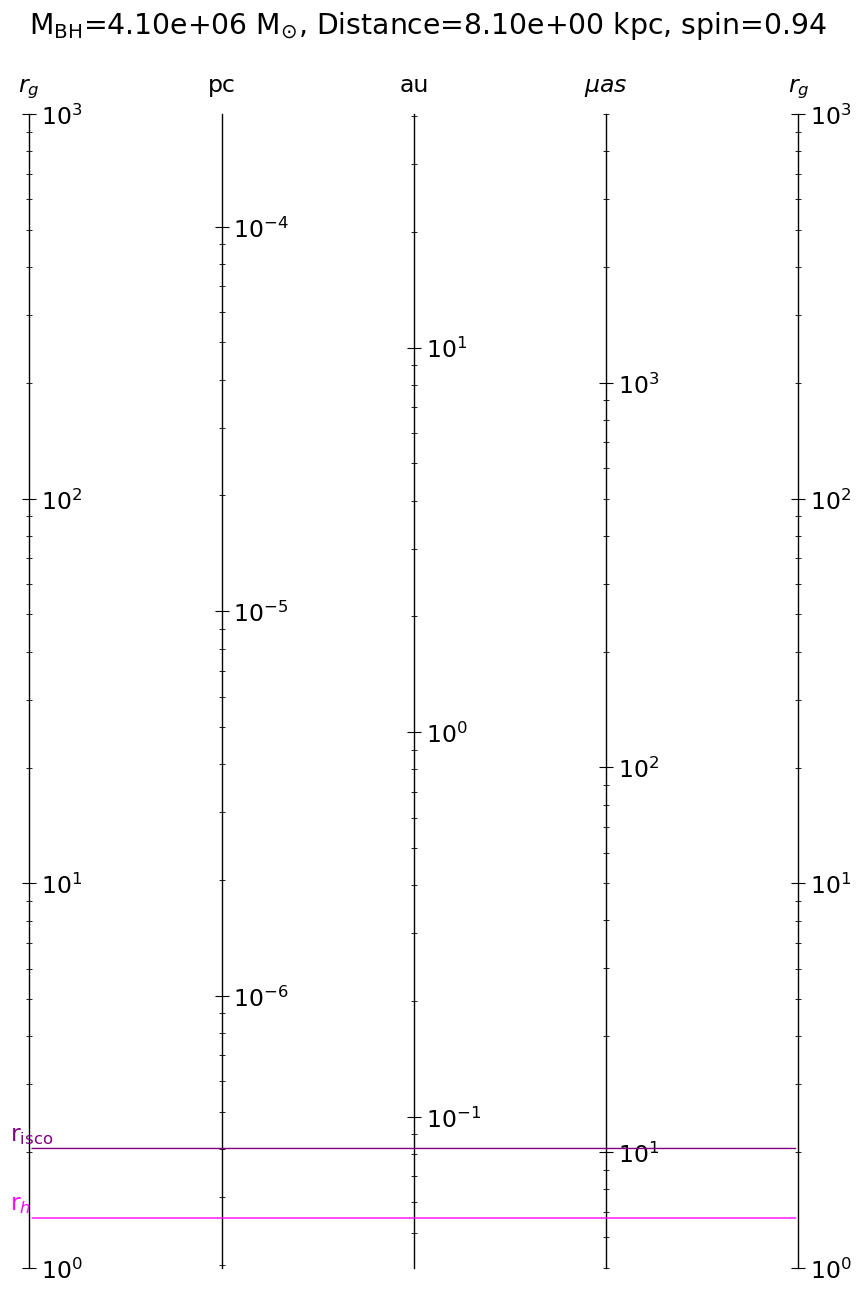
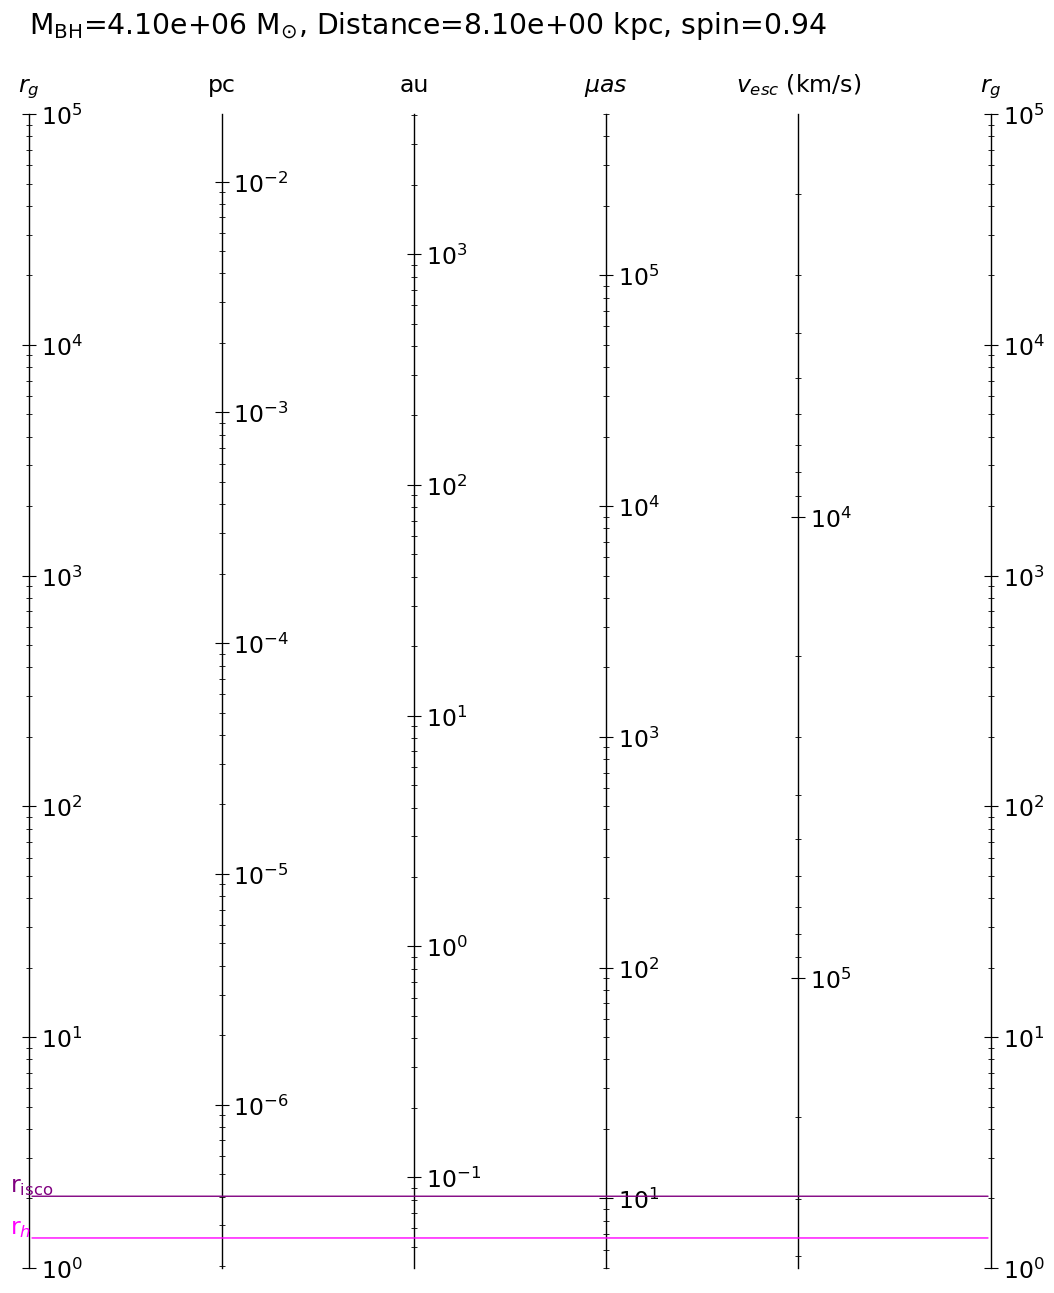
update bhscale

diff --git a/searchindex.js b/searchindex.js
@@ -1,1 +1,1 @@
-Search.setIndex({docnames:["SodShockTube","astro","cosmonom","img2data","index","tools"],envversion:52,filenames:["SodShockTube.ipynb","astro.ipynb","cosmonom.ipynb","img2data.ipynb","index.rst","tools.ipynb"],objects:{},objnames:{},objtypes:{},terms:{"0000000000000021e":3,"000000e":1,"054163e":1,"08567758147e":1,"085678e":1,"0x7f8dee5c6390":5,"0x7f8dee7a8bd0":5,"100000e":1,"109383e":1,"12e1":5,"153600e":1,"1d12":5,"1e1":1,"1e10":1,"1e3":1,"1e5":1,"1e6":1,"1e9":1,"1kpc":2,"1st":5,"2013arxiv1303":2,"23d3":5,"25741469797e":1,"2nd":5,"380649e":1,"3rd":5,"45425495549e":1,"454255e":1,"495979e":1,"4th":5,"5760773795493983e":3,"5961p":2,"602177e":1,"626070e":1,"652459e":1,"660539e":1,"670373e":1,"672622e":1,"673840e":1,"67384e":1,"674927e":1,"817941e":1,"846000e":1,"95407146642e":1,"955080e":1,"989100e":1,"997925e":1,"case":3,"catch":2,"class":2,"default":[1,2],"export":1,"final":3,"float":[2,5],"function":[1,2,3],"import":[0,1,2,3,5],"return":1,"true":[1,3],For:1,The:4,Then:1,Using:5,__init__:2,abs:2,abund:1,accorindg:3,accret:1,add:1,add_subplot:[0,5],adiabat:[0,1],adjust:[0,5],adjust_subplot:5,adsab:2,age0:2,age:2,age_z:2,aim:1,all:[2,3,4,5],allow:3,alpha:5,amp:1,amu:1,analyt:0,anaylsi:4,angl:2,angle_z:2,ani:[3,5],annot:[0,5],arang:5,arg:1,ascii:5,asdf:5,assum:1,astro:4,astrodoo:[1,4],astroeq:4,astronom:1,astronomi:1,astropedia:1,astrophys:[1,4],astropi:[1,4],astrounit:4,avoid:2,ax1:[0,5],ax2:[0,5],ax3:[0,5],ax4:[0,5],axes:[2,5],axi:[3,5],axpo:[0,4],axset:[0,5],axvlin:0,bashrc:1,batch:1,bbox:5,bbox_prop:5,befor:1,below:1,best:5,bhscale:4,black:1,blue:5,bondi:1,bother:3,boundari:3,boxstyl:5,bug:5,calcul:[0,1,2],call:1,can:[1,3,5],cannot:5,central:1,cgs:1,check:[1,3,5],circular:1,click:3,clone:4,close:5,clr:5,clralp1:5,clralp2:5,clralp3:5,clralp4:5,clralp5:5,cm2:1,cm3:1,code:[1,2,4],collect:[1,3],color:[0,5],column:5,com:4,comov:2,compil:[1,4],con:1,configur:[0,5],constant:[1,2],contact:4,content:4,correspond:2,cosmo:2,cosmolog:2,cosmonom:4,costant:1,cxi:5,data:[3,4,5],deal:5,defin:2,densiti:[0,1],descript:1,design:2,dfd:5,dict:5,distanc:1,dmz:2,doosoo:1,doubl:1,download:4,draw:[1,2,5],drawn:5,due:1,dummi:5,each:5,easi:5,easili:1,eddington:1,edu:2,effect:5,effici:1,either:1,element:5,energi:0,enter:1,environ:[2,3,5],eps:[1,2,5],equat:[0,1,2],erg:1,even:5,event:1,exampl:[3,5],example_data:[1,2,3,5],extremum:2,fact:1,factor:5,fall:1,fals:5,fdir:5,fig:[0,3,5],figdir:[1,2,5],figsiz:[0,3,5],figur:[0,3,5],file:[1,2,4,5],filenam:1,fill:5,fillstyl:5,fininsh:3,first:[3,5],fit:1,fname:5,fontsiz:0,format:[3,5],formula:1,forth:5,four:3,fraction:[0,5],free:1,from:[0,1,2,3,4,5],full:5,fulli:1,gamma:[0,1],gener:5,get:5,get_xticklabel:5,get_yticklabel:5,git:4,github:4,given:[1,2,5],gravit:1,harvard:2,hassel:1,help:[1,2],here:2,histori:1,hole:1,home:1,horizon:1,horizont:2,http:[2,4],hubbl:2,imag:3,img2data:4,img:3,imgplot:3,imread:3,imshow:3,index:1,infin:2,info:1,inform:4,initi:[0,5],inlin:[0,1,2,3,5],innermost:1,instanc:2,integ:5,interact:3,interest:5,intern:0,intrins:5,intut:5,ioniz:1,item:5,itext:5,jean:1,jpg:3,just:[3,5],k_b:1,kas:5,keplerian:1,keyword:[1,2],kpc:[1,2],l_sun:1,label:5,lambda:2,larg:5,ledd:1,left:5,legend:5,length:1,let:[3,5],lib:1,like:5,line:[1,2,3,5],linear:4,linestyl:0,linewidth:0,linspac:5,list:3,ljean:1,ln1:5,ln2:5,ln3:5,ln4:5,ln5:5,loc:5,locat:5,log:[1,4],logarithm:3,loglog:3,lookback:2,lsun:1,luminos:1,lyr:1,m_e:1,m_n:1,m_p:1,m_sun:1,magic:3,mai:[1,5],margin:[0,5],mark:3,marker:5,markeralpha:5,markeredgecolor:5,markerfacecolor:5,mass:1,matplotlib:[0,1,2,3,4,5],maximum:[2,3],mbh:1,mdotbondi:1,mdotedd:1,mean:1,mec:5,merg:5,method:[2,5],mfc:5,mimic:5,mimicalpha_to_rgb:4,mimick:5,min:2,minimum:[2,3],minimun:2,mjean:1,mk1:5,mk2:5,mk3:5,mk4:5,mk5:5,mmw:1,mock:5,mode:3,modifi:4,modul:[1,2,4],molecular:1,more:[3,5],most:1,mous:3,mpimg:3,msun:1,mtickexp:4,multipl:0,multiplot:5,name:1,nan:5,need:[1,5],neutral:1,next:3,nolin:3,none:[1,2],note:[3,4,5],notebook:3,novemb:1,now:[3,5],nskip:5,ntime:2,number:5,numer:4,numpi:[0,4,5],observatori:1,omega:2,omega_lambda:2,omega_m:2,onc:5,one:[3,5],onli:5,open:[1,4,5],orbit:1,order:[2,5],out:[1,2,3,5],output:2,overlap:[3,5],pacakag:4,packag:[1,4],paper:2,param:1,paramet:[1,2],part:5,particularli:1,pencil:2,permit:4,pilipenko:2,pleas:3,plost:5,plot:[0,2,4,5],plt:[0,3,5],pltx0:[0,5],pltx:[0,5],pltxw:[0,5],plty0:[0,5],plty:[0,5],pltyw:[0,5],png:[2,3],point:[1,3],pointmass:1,pointnum:5,pos:5,posit:[3,5],possibl:5,post:5,potenti:1,prepar:[3,5],pressur:[0,1],print:[1,2,3,5],problem:0,produc:5,purpos:1,py_lib:1,pyfig:3,pyplot:[0,3,5],python:[1,4,5],pythondata:[3,5],pythonfig:2,pythonpath:1,pythonstartup:1,quick:1,r_comov:2,r_sun:1,radeff:1,radi:1,radiu:[1,2],rang:3,rate:1,rbondi:1,read:[1,5],readabl:[3,5],readcol:4,readimg:3,readlin:5,red:2,redefin:2,refer:[1,2],repeatedli:3,repres:3,resol:0,respect:[2,5],rgb:5,rgmax:1,rho:1,risco:1,rjean:1,rotat:5,round:5,rsh:1,rsun:1,run:3,same:5,sampl:5,save:[1,2,3],savefig:5,scale:[1,2,4],schwarschild:1,script:5,second:[3,5],seem:3,self:[2,3],set:[3,5],set_xlabel:0,set_xlim:[3,5],set_ylabel:0,set_ylim:[3,5],setenv:1,setp:5,sgr:1,shanghai:1,shape:[1,3],sharei:5,sharex:5,shift:2,shocktub:0,shoud:1,should:[1,3,5],sigma_sb:1,sigma_t:1,sigmasb:1,sigmat:1,simpl:4,simpli:5,sinc:5,singl:5,size:[2,3,5],size_z:2,small:0,smoothli:3,sod:0,sodshock:4,solar:1,some:1,sometim:3,somewhat:1,sound:1,sourc:4,speed:1,spheric:1,spin:1,spread:4,stabl:1,start:1,startup:1,state:0,stop:3,string:[2,5],subplot:[3,5],subplots_adjust:[0,5],symbol:5,tabl:4,target:1,tcshrc:1,temperatur:1,test_usr:5,testf:5,testlinear:3,testlog:3,text:5,tff:1,thi:[1,3,4,5],third:[3,5],those:1,tick:5,tight_layout:5,time:[0,1,2,3],tool:[0,4],transform:5,transit:3,transpar:5,traspar:5,treatment:5,tupl:5,twice:5,two:3,type:[2,3,5],under:2,uniform:1,unit:1,until:5,usag:1,use:1,used:5,useful:[1,4],using:1,valu:[0,1,2],variabl:[1,2],veloc:[0,1],vertic:5,visibl:5,visual:1,vkep:1,wai:5,weight:1,weird:5,were:2,when:[2,3],whenev:1,where:1,which:4,wini:[0,5],winx:[0,5],without:[1,3],work:3,would:[1,3,5],written:1,xaxi:5,xcd:0,xdata:3,xlim:[3,5],xlog:3,xscale:0,xsh:0,xycoord:[0,5],yaxi:5,ydata:3,year:1,yet:3,ylim:[3,5],ylog:3,yoon:1,you:[1,3,5],z_extremum:2,zage:2,zangle1:2,zangle2:2,zdm:2,zero:2,zext:2,zmax:2,zmin:2,zsize1:2,zsize2:2,zxcve:5},titles:["pyds.numerical.sodshock","pyds.astro","pyds.cosmonom","pyds.img2data","pyds","pyds.tools"],titleterms:{astro:1,astroeq:1,astrounit:1,axpo:5,bhscale:1,cosmonom:2,depend:4,img2data:3,instal:4,introduct:4,linear:3,log:3,mimicalpha_to_rgb:5,mtickexp:5,numer:0,plot:3,pyd:[0,1,2,3,4,5],readcol:5,scale:3,sodshock:0,tool:5}})
+Search.setIndex({docnames:["SodShockTube","astro","cosmonom","img2data","index","tools"],envversion:52,filenames:["SodShockTube.ipynb","astro.ipynb","cosmonom.ipynb","img2data.ipynb","index.rst","tools.ipynb"],objects:{},objnames:{},objtypes:{},terms:{"0000000000000021e":3,"000000e":1,"054163e":1,"08567758147e":1,"085678e":1,"0x7f8dee5c6390":5,"0x7f8dee7a8bd0":5,"100000e":1,"109384e":1,"12e1":5,"153600e":1,"1d12":5,"1e1":1,"1e10":1,"1e5":1,"1e6":1,"1e9":1,"1kpc":2,"1st":5,"2013arxiv1303":2,"23d3":5,"25706516362e":1,"2nd":5,"380649e":1,"3rd":5,"45425495549e":1,"454255e":1,"495979e":1,"4th":5,"5760773795493983e":3,"5961p":2,"602177e":1,"626070e":1,"652459e":1,"660539e":1,"670367e":1,"672622e":1,"674080e":1,"67408e":1,"674927e":1,"817941e":1,"828000e":1,"9532500761e":1,"957000e":1,"988475e":1,"997925e":1,"case":3,"catch":2,"class":2,"default":[1,2],"export":1,"final":3,"float":[2,5],"function":[1,2,3],"import":[0,1,2,3,5],"return":1,"true":[1,3],For:1,The:4,Then:1,Using:5,__init__:2,abs:2,abund:1,accorindg:3,accret:1,add:1,add_subplot:[0,5],adiabat:[0,1],adjust:[0,5],adjust_subplot:5,adsab:2,age0:2,age:2,age_z:2,aim:1,all:[2,3,4,5],allow:3,alpha:5,amp:1,amu:1,analyt:0,anaylsi:4,angl:2,angle_z:2,ani:[3,5],annot:[0,5],arang:5,arg:1,ascii:5,asdf:5,assum:1,astro:4,astrodoo:4,astroeq:4,astronom:1,astronomi:1,astropedia:1,astrophys:[1,4],astropi:[1,4],astrounit:4,avoid:2,ax1:[0,5],ax2:[0,5],ax3:[0,5],ax4:[0,5],axes:[2,5],axi:[3,5],axpo:[0,4],axset:[0,5],axvlin:0,bashrc:1,batch:1,bbox:5,bbox_prop:5,befor:1,below:1,best:5,bhscale:4,black:1,blue:5,bondi:1,bother:3,boundari:3,boxstyl:5,bug:5,calcul:[0,1,2],call:1,can:[1,3,5],cannot:5,central:1,cgs:1,check:[1,3,5],circular:1,click:3,clone:4,close:5,clr:5,clralp1:5,clralp2:5,clralp3:5,clralp4:5,clralp5:5,cm2:1,cm3:1,code:[1,2,4],collect:[1,3],color:[0,5],column:5,com:4,comov:2,compil:[1,4],con:1,configur:[0,5],constant:[1,2],contact:4,content:4,correspond:2,cosmo:2,cosmolog:2,cosmonom:4,costant:1,cxi:5,data:[3,4,5],deal:5,defin:2,densiti:[0,1],descript:1,design:2,dfd:5,dict:5,distanc:1,dmz:2,doosoo:1,doubl:1,download:4,draw:[1,2,5],drawn:5,due:1,dummi:5,each:5,easi:5,easili:1,eddington:1,edu:2,effect:5,effici:1,either:1,element:5,energi:0,enter:1,environ:[2,3,5],eps:[1,2,5],equat:[0,1,2],erg:1,even:5,event:1,exampl:[3,5],example_data:[1,2,3,5],extremum:2,fact:1,factor:[1,5],fall:1,fals:5,fdir:5,fig:[0,3,5],figdir:[1,2,5],figsiz:[0,3,5],figur:[0,3,5],file:[1,2,4,5],filenam:1,fill:5,fillstyl:5,fininsh:3,first:[3,5],fit:1,fname:5,fontsiz:0,format:[3,5],formula:1,forth:5,four:3,fraction:[0,5],free:1,from:[0,1,2,3,4,5],full:5,fulli:1,gamma:[0,1],gener:5,get:5,get_xticklabel:5,get_yticklabel:5,git:4,github:4,given:[1,2,5],gravit:1,harvard:2,hassel:1,help:[1,2],here:2,histori:1,hole:1,horizon:1,horizont:2,http:[2,4],hubbl:2,imag:3,img2data:4,img:3,imgplot:3,imread:3,imshow:3,index:1,infin:2,info:1,inform:4,initi:[0,5],inlin:[0,1,2,3,5],innermost:1,instanc:2,integ:5,interact:3,interest:5,intern:0,intrins:5,intut:5,ioniz:1,item:5,itext:5,jean:1,jpg:3,just:[3,5],k_b:1,kas:5,keplerian:1,keyword:[1,2],kpc:[1,2],l_sun:1,label:5,lambda:2,larg:5,ledd:1,left:5,legend:5,length:1,let:[3,5],lib:1,like:5,line:[1,2,3,5],linear:4,linestyl:0,linewidth:0,linspac:5,list:3,ljean:1,ln1:5,ln2:5,ln3:5,ln4:5,ln5:5,loc:5,locat:5,log:[1,4],logarithm:3,loglog:3,lookback:2,lorentz:1,lsun:1,luminos:1,lyr:1,m_e:1,m_n:1,m_p:1,m_sun:1,magic:3,mai:[1,5],margin:[0,5],mark:3,marker:5,markeralpha:5,markeredgecolor:5,markerfacecolor:5,mass:1,matplotlib:[0,1,2,3,4,5],maximum:[2,3],mbh:1,mdotbondi:1,mdotedd:1,mean:1,mec:5,merg:5,method:[2,5],mfc:5,mimic:5,mimicalpha_to_rgb:4,mimick:5,min:2,minimum:[2,3],minimun:2,mjean:1,mk1:5,mk2:5,mk3:5,mk4:5,mk5:5,mmw:1,mock:5,mode:3,modifi:4,modul:[1,2,4],molecular:1,more:[3,5],most:1,mous:3,mpimg:3,msun:1,mtickexp:4,multipl:0,multiplot:5,name:1,nan:5,need:[1,5],neutral:1,next:3,nolin:3,none:[1,2],note:[3,4,5],notebook:3,novemb:1,now:[3,5],nskip:5,ntime:2,number:5,numer:4,numpi:[0,4,5],observatori:1,omega:2,omega_lambda:2,omega_m:2,onc:5,one:[3,5],onli:5,open:[1,4,5],orbit:1,order:[2,5],out:[1,2,3,5],output:2,overlap:[3,5],pacakag:4,packag:[1,4],paper:2,param:1,paramet:[1,2],part:5,particularli:1,pencil:2,permit:4,pilipenko:2,pleas:3,plost:5,plot:[0,2,4,5],plt:[0,3,5],pltx0:[0,5],pltx:[0,5],pltxw:[0,5],plty0:[0,5],plty:[0,5],pltyw:[0,5],png:[2,3],point:[1,3],pointmass:1,pointnum:5,pos:5,posit:[3,5],possibl:5,post:5,potenti:1,prepar:[3,5],pressur:[0,1],print:[1,2,3,5],problem:0,produc:5,purpos:1,pyfig:3,pylib:1,pyplot:[0,3,5],python:[1,4,5],pythondata:[3,5],pythonfig:2,pythonpath:1,pythonstartup:1,quick:1,r_comov:2,r_sun:1,radeff:1,radi:1,radiu:[1,2],rang:3,rate:1,rbondi:1,read:[1,5],readabl:[3,5],readcol:4,readimg:3,readlin:5,red:2,redefin:2,refer:[1,2],repeatedli:3,repres:3,resol:0,respect:[2,5],rgb:5,rgmax:1,rho:1,risco:1,rjean:1,rotat:5,round:5,rsh:1,rsun:1,run:3,same:5,sampl:5,save:[1,2,3],savefig:5,scale:[1,2,4],schwarschild:1,script:5,second:[3,5],seem:3,self:[2,3],set:[3,5],set_xlabel:0,set_xlim:[3,5],set_ylabel:0,set_ylim:[3,5],setenv:1,setp:5,sgr:1,shanghai:1,shape:[1,3],sharei:5,sharex:5,shift:2,shocktub:0,shoud:1,should:[1,3,5],sigma_sb:1,sigma_t:1,sigmasb:1,sigmat:1,simpl:4,simpli:5,sinc:5,singl:5,size:[2,3,5],size_z:2,small:0,smoothli:3,sod:0,sodshock:4,solar:1,some:1,sometim:3,somewhat:1,sound:1,sourc:4,speed:1,spheric:1,spin:1,spread:4,stabl:1,start:1,startup:1,state:0,stop:3,string:[2,5],subplot:[3,5],subplots_adjust:[0,5],symbol:5,tabl:4,target:1,tcshrc:1,temperatur:1,test_usr:5,testf:5,testlinear:3,testlog:3,text:5,tff:1,thi:[1,3,4,5],third:[3,5],those:1,tick:5,tight_layout:5,time:[0,1,2,3],tool:[0,4],transform:5,transit:3,transpar:5,traspar:5,treatment:5,tupl:5,twice:5,two:3,type:[2,3,5],under:2,uniform:1,unit:1,until:5,usag:1,use:1,used:5,useful:[1,4],using:1,valu:[0,1,2],variabl:[1,2],veloc:[0,1],vertic:5,visibl:5,visual:1,vkep:1,wai:5,weight:1,weird:5,were:2,when:[2,3],whenev:1,where:1,which:4,wini:[0,5],winx:[0,5],without:[1,3],work:3,would:[1,3,5],written:1,xaxi:5,xcd:0,xdata:3,xlim:[3,5],xlog:3,xscale:0,xsh:0,xycoord:[0,5],yaxi:5,ydata:3,year:1,yet:3,ylim:[3,5],ylog:3,yoon:1,you:[1,3,5],z_extremum:2,zage:2,zangle1:2,zangle2:2,zdm:2,zero:2,zext:2,zmax:2,zmin:2,zsize1:2,zsize2:2,zxcve:5},titles:["pyds.numerical.sodshock","pyds.astro","pyds.cosmonom","pyds.img2data","pyds","pyds.tools"],titleterms:{astro:1,astroeq:1,astrounit:1,axpo:5,bhscale:1,cosmonom:2,depend:4,img2data:3,instal:4,introduct:4,linear:3,log:3,mimicalpha_to_rgb:5,mtickexp:5,numer:0,plot:3,pyd:[0,1,2,3,4,5],readcol:5,scale:3,sodshock:0,tool:5}})

diff --git a/astro.html b/astro.html
@@ -405,22 +405,22 @@ hassels.</li>
 <div class="highlight"><pre>
     name         name in astropy         value in cgs    unit
 ----------------------------------------------------------------------
-      me                     m_e         9.109383e-28    g
+      me                     m_e         9.109384e-28    g
       kb                     k_B         1.380649e-16    erg / K
        c                       c         2.997925e+10    cm / s
-    rsun                   R_sun         6.955080e+10    cm
-       g                       G         6.673840e-08    cm3 / (g s2)
+    rsun                   R_sun         6.957000e+10    cm
+       g                       G         6.674080e-08    cm3 / (g s2)
       pc                      pc         3.085678e+18    cm
        h                       h         6.626070e-27    erg s
       mn                     m_n         1.674927e-24    g
       mh                     m_p         1.672622e-24    g
- sigmaSB                sigma_sb         5.670373e-05    g / (K4 s3)
-    msun                   M_sun         1.989100e+33    g
+ sigmaSB                sigma_sb         5.670367e-05    g / (K4 s3)
+    msun                   M_sun         1.988475e+33    g
      kpc                     kpc         3.085678e+21    cm
       au                      au         1.495979e+13    cm
       mp                     m_p         1.672622e-24    g
   sigmaT                 sigma_T         6.652459e-25    cm2
-    lsun                   L_sun         3.846000e+33    erg / s
+    lsun                   L_sun         3.828000e+33    erg / s
      amu                       u         1.660539e-24    g
 ----------------------------------------------------------------------
 not in astropy:
@@ -448,7 +448,7 @@ not in astropy:
 </div>
 <div class="output_area docutils container">
 <div class="highlight"><pre>
-6.67384e-08 3.08567758147e+18 9.45425495549e+17
+6.67408e-08 3.08567758147e+18 9.45425495549e+17
 </pre></div></div>
 </div>
 <div class="nbinput docutils container">
@@ -471,7 +471,7 @@ not in astropy:
 </div>
 <div class="output_area docutils container">
 <div class="highlight"><pre>
-6.67384e-08 6.67384e-08
+6.67408e-08 6.67408e-08
 </pre></div></div>
 </div>
 <div class="nbinput docutils container">
@@ -493,22 +493,22 @@ not in astropy:
 <div class="highlight"><pre>
     name         name in astropy         value in cgs    unit
 ----------------------------------------------------------------------
-      me                     m_e         9.109383e-28    g
+      me                     m_e         9.109384e-28    g
       kb                     k_B         1.380649e-16    erg / K
        c                       c         2.997925e+10    cm / s
-    rsun                   R_sun         6.955080e+10    cm
-       g                       G         6.673840e-08    cm3 / (g s2)
+    rsun                   R_sun         6.957000e+10    cm
+       g                       G         6.674080e-08    cm3 / (g s2)
       pc                      pc         3.085678e+18    cm
        h                       h         6.626070e-27    erg s
       mn                     m_n         1.674927e-24    g
       mh                     m_p         1.672622e-24    g
- sigmaSB                sigma_sb         5.670373e-05    g / (K4 s3)
-    msun                   M_sun         1.989100e+33    g
+ sigmaSB                sigma_sb         5.670367e-05    g / (K4 s3)
+    msun                   M_sun         1.988475e+33    g
      kpc                     kpc         3.085678e+21    cm
       au                      au         1.495979e+13    cm
       mp                     m_p         1.672622e-24    g
   sigmaT                 sigma_T         6.652459e-25    cm2
-    lsun                   L_sun         3.846000e+33    erg / s
+    lsun                   L_sun         3.828000e+33    erg / s
      amu                       u         1.660539e-24    g
 ----------------------------------------------------------------------
 not in astropy:
@@ -552,10 +552,10 @@ None
 </div>
 <div class="output_area docutils container">
 <div class="highlight"><pre>
-1.25741469797e+47
-2.95407146642e+14
-408248.290464
-0.0210074181092
+1.25706516362e+47
+2.9532500761e+14
+408248.290463863
+0.021007040392246275
 </pre></div></div>
 </div>
 <div class="nbinput docutils container">
@@ -579,7 +579,7 @@ NAME
     pyds.astro.astroeq
 
 FILE
-    /home/astrodoo/lib/py_lib/pyds/astro/astroeq.py
+    f:\doosoo\lib\pylib\pyds\astro\astroeq.py
 
 DESCRIPTION
     filename:
@@ -610,6 +610,9 @@ FUNCTIONS
            T: temperature in K
            rho: density in g/cm3
            mmw: mean molecular weight (default=1.3 for neutral solar abundance)
+
+    Lorentz(v)
+        Lorentz factor
 
     Mdotbondi(mbh=1.0, rho=1.0, cs=1.0)
         Bondi Accretion rate
@@ -694,7 +697,7 @@ circular orbit with the given parameters of black hole (mass, spin)</li>
 </ul>
 <div class="nbinput nblast docutils container">
 <div class="prompt highlight-none"><div class="highlight"><pre>
-<span></span>In [2]:
+<span></span>In [7]:
 </pre></div>
 </div>
 <div class="input_area highlight-ipython2"><div class="highlight"><pre>
@@ -709,7 +712,7 @@ circular orbit with the given parameters of black hole (mass, spin)</li>
 </div>
 <div class="nbinput docutils container">
 <div class="prompt highlight-none"><div class="highlight"><pre>
-<span></span>In [4]:
+<span></span>In [8]:
 </pre></div>
 </div>
 <div class="input_area highlight-ipython2"><div class="highlight"><pre>
@@ -732,14 +735,14 @@ risco = 2.044201 rg
 </div>
 <div class="nbinput docutils container">
 <div class="prompt highlight-none"><div class="highlight"><pre>
-<span></span>In [6]:
+<span></span>In [9]:
 </pre></div>
 </div>
 <div class="input_area highlight-ipython2"><div class="highlight"><pre>
 <span></span><span class="o">%</span><span class="k">matplotlib</span> inline
 
 <span class="n">figdir</span> <span class="o">=</span> <span class="s1">&#39;./example_data/&#39;</span>
-<span class="n">Sgr</span><span class="o">.</span><span class="n">draw</span><span class="p">(</span><span class="n">rgmax</span><span class="o">=</span><span class="mf">1e3</span><span class="p">,</span><span class="n">log</span><span class="o">=</span><span class="bp">True</span><span class="p">,</span> <span class="n">out</span><span class="o">=</span><span class="n">figdir</span><span class="o">+</span><span class="s2">&quot;bhscale.eps&quot;</span><span class="p">)</span>
+<span class="n">Sgr</span><span class="o">.</span><span class="n">draw</span><span class="p">(</span><span class="n">rgmax</span><span class="o">=</span><span class="mf">1e5</span><span class="p">,</span><span class="n">log</span><span class="o">=</span><span class="bp">True</span><span class="p">,</span> <span class="n">out</span><span class="o">=</span><span class="n">figdir</span><span class="o">+</span><span class="s2">&quot;bhscale.eps&quot;</span><span class="p">)</span>
 </pre></div>
 </div>
 </div>
@@ -788,7 +791,7 @@ saved to ./example_data/bhscale.eps
   <div role="contentinfo">
     <p>
         &copy; Copyright 2017, Doosoo Yoon.
-      Last updated on Jan 25, 2019.
+      Last updated on Jan 29, 2019.
 
     </p>
   </div>

diff --git a/index.html b/index.html
@@ -276,7 +276,7 @@ The contact information is noted at <a class="reference external" href="https://
   <div role="contentinfo">
     <p>
         &copy; Copyright 2017, Doosoo Yoon.
-      Last updated on Jan 25, 2019.
+      Last updated on Jan 29, 2019.
 
     </p>
   </div>

diff --git a/img2data.html b/img2data.html
@@ -3037,7 +3037,7 @@ if (IPython.notebook.kernel != null) {
   <div role="contentinfo">
     <p>
         &copy; Copyright 2017, Doosoo Yoon.
-      Last updated on Jan 25, 2019.
+      Last updated on Jan 29, 2019.
 
     </p>
   </div>

diff --git a/tools.html b/tools.html
@@ -846,7 +846,7 @@ div.nboutput div.output_area.stderr {
   <div role="contentinfo">
     <p>
         &copy; Copyright 2017, Doosoo Yoon.
-      Last updated on Jan 25, 2019.
+      Last updated on Jan 29, 2019.
 
     </p>
   </div>

diff --git a/cosmonom.html b/cosmonom.html
@@ -557,7 +557,7 @@ saved to ./example_data/cosmonom.eps
   <div role="contentinfo">
     <p>
         &copy; Copyright 2017, Doosoo Yoon.
-      Last updated on Jan 25, 2019.
+      Last updated on Jan 29, 2019.
 
     </p>
   </div>

diff --git a/SodShockTube.html b/SodShockTube.html
@@ -466,7 +466,7 @@ adiabatic equation of states</li>
   <div role="contentinfo">
     <p>
         &copy; Copyright 2017, Doosoo Yoon.
-      Last updated on Jan 25, 2019.
+      Last updated on Jan 29, 2019.
 
     </p>
   </div>

diff --git a/genindex.html b/genindex.html
@@ -184,7 +184,7 @@
   <div role="contentinfo">
     <p>
         &copy; Copyright 2017, Doosoo Yoon.
-      Last updated on Jan 25, 2019.
+      Last updated on Jan 29, 2019.
 
     </p>
   </div>

diff --git a/search.html b/search.html
@@ -183,7 +183,7 @@
   <div role="contentinfo">
     <p>
         &copy; Copyright 2017, Doosoo Yoon.
-      Last updated on Jan 25, 2019.
+      Last updated on Jan 29, 2019.
 
     </p>
   </div>
